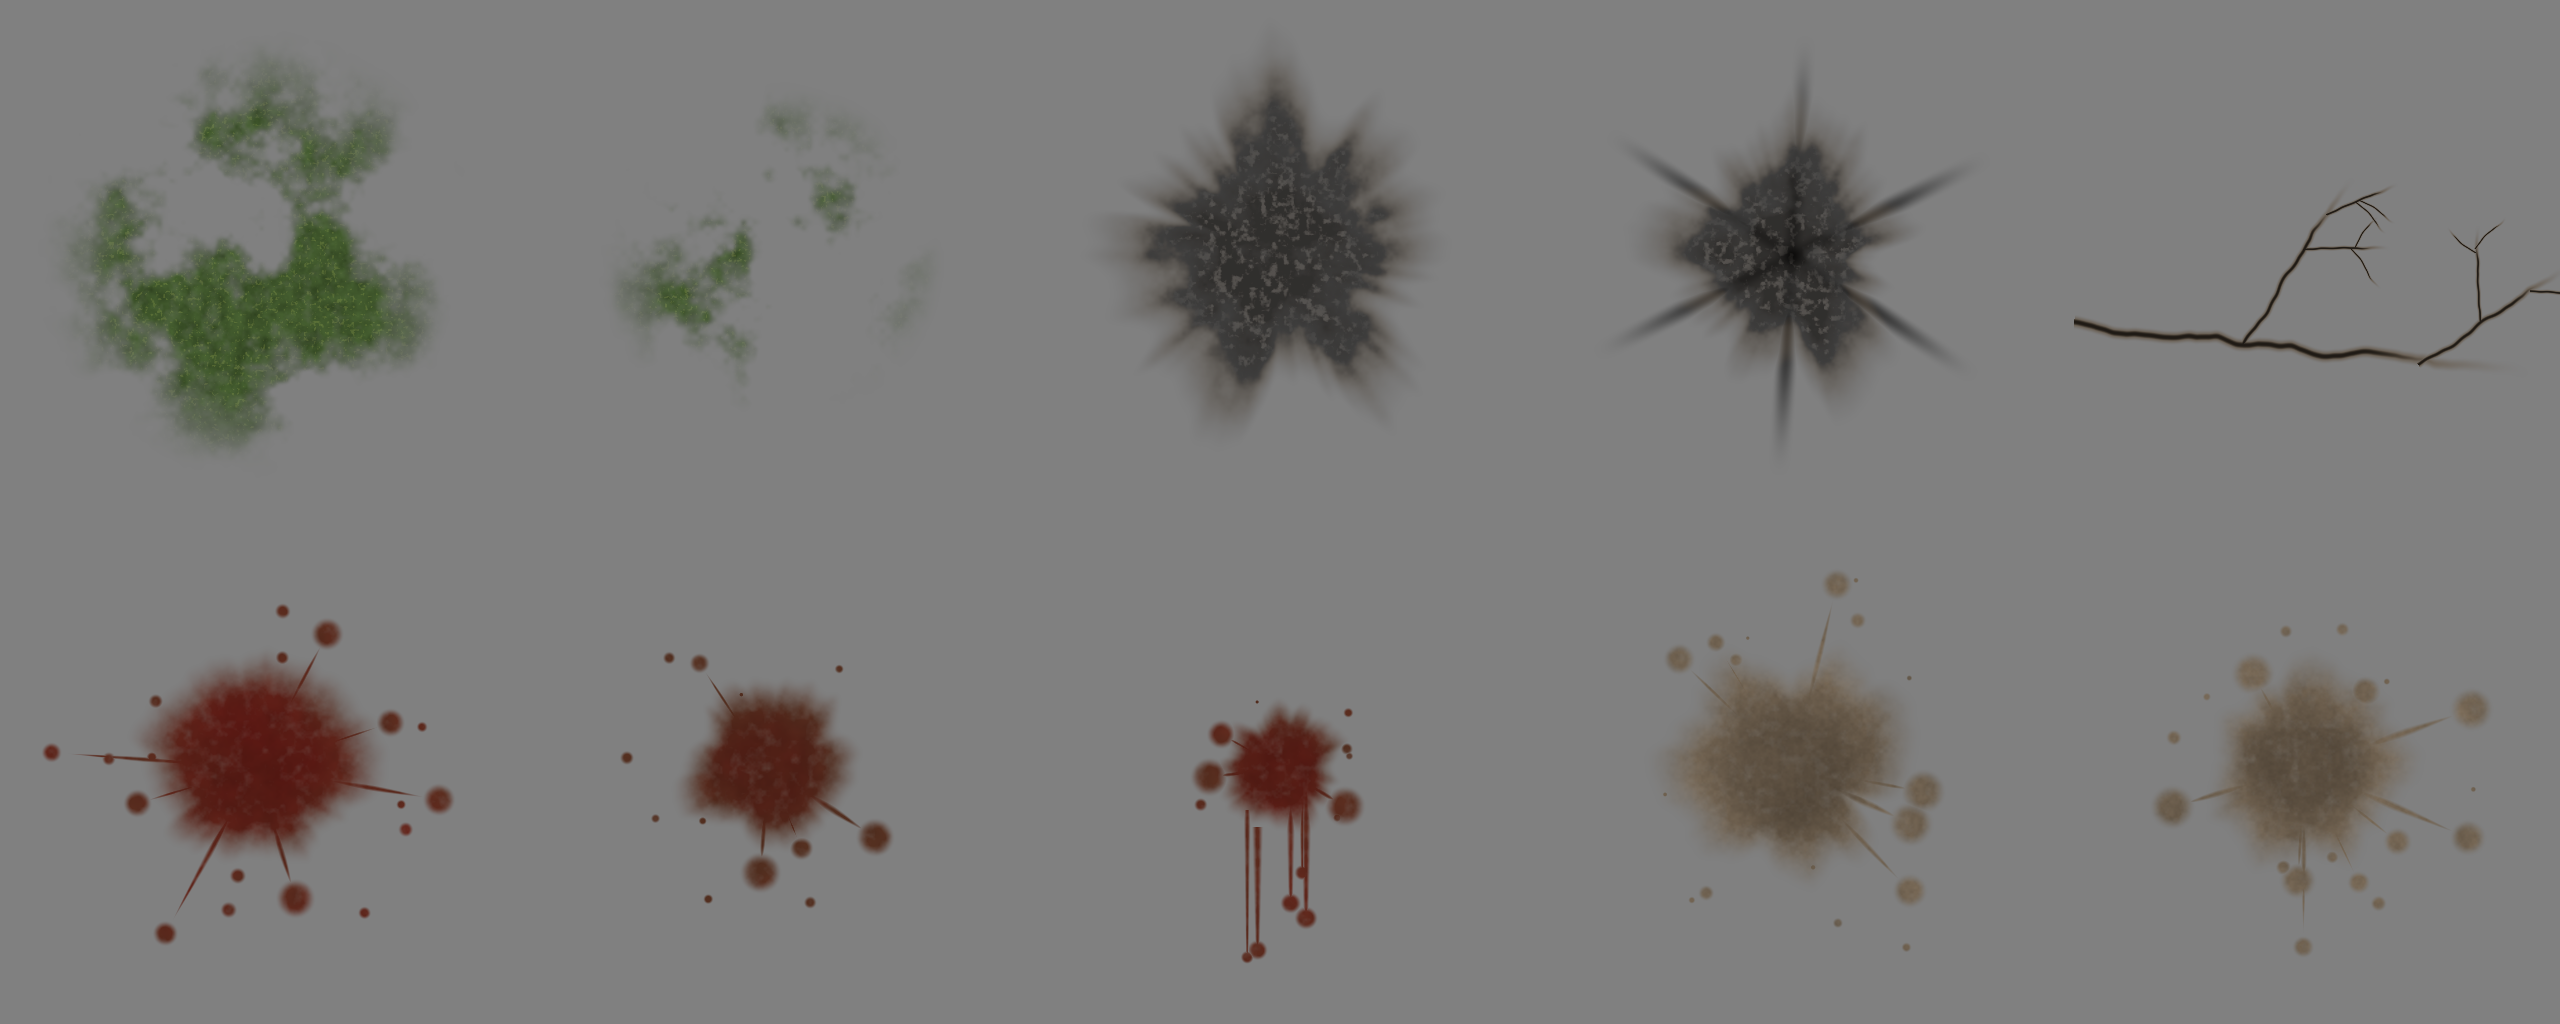
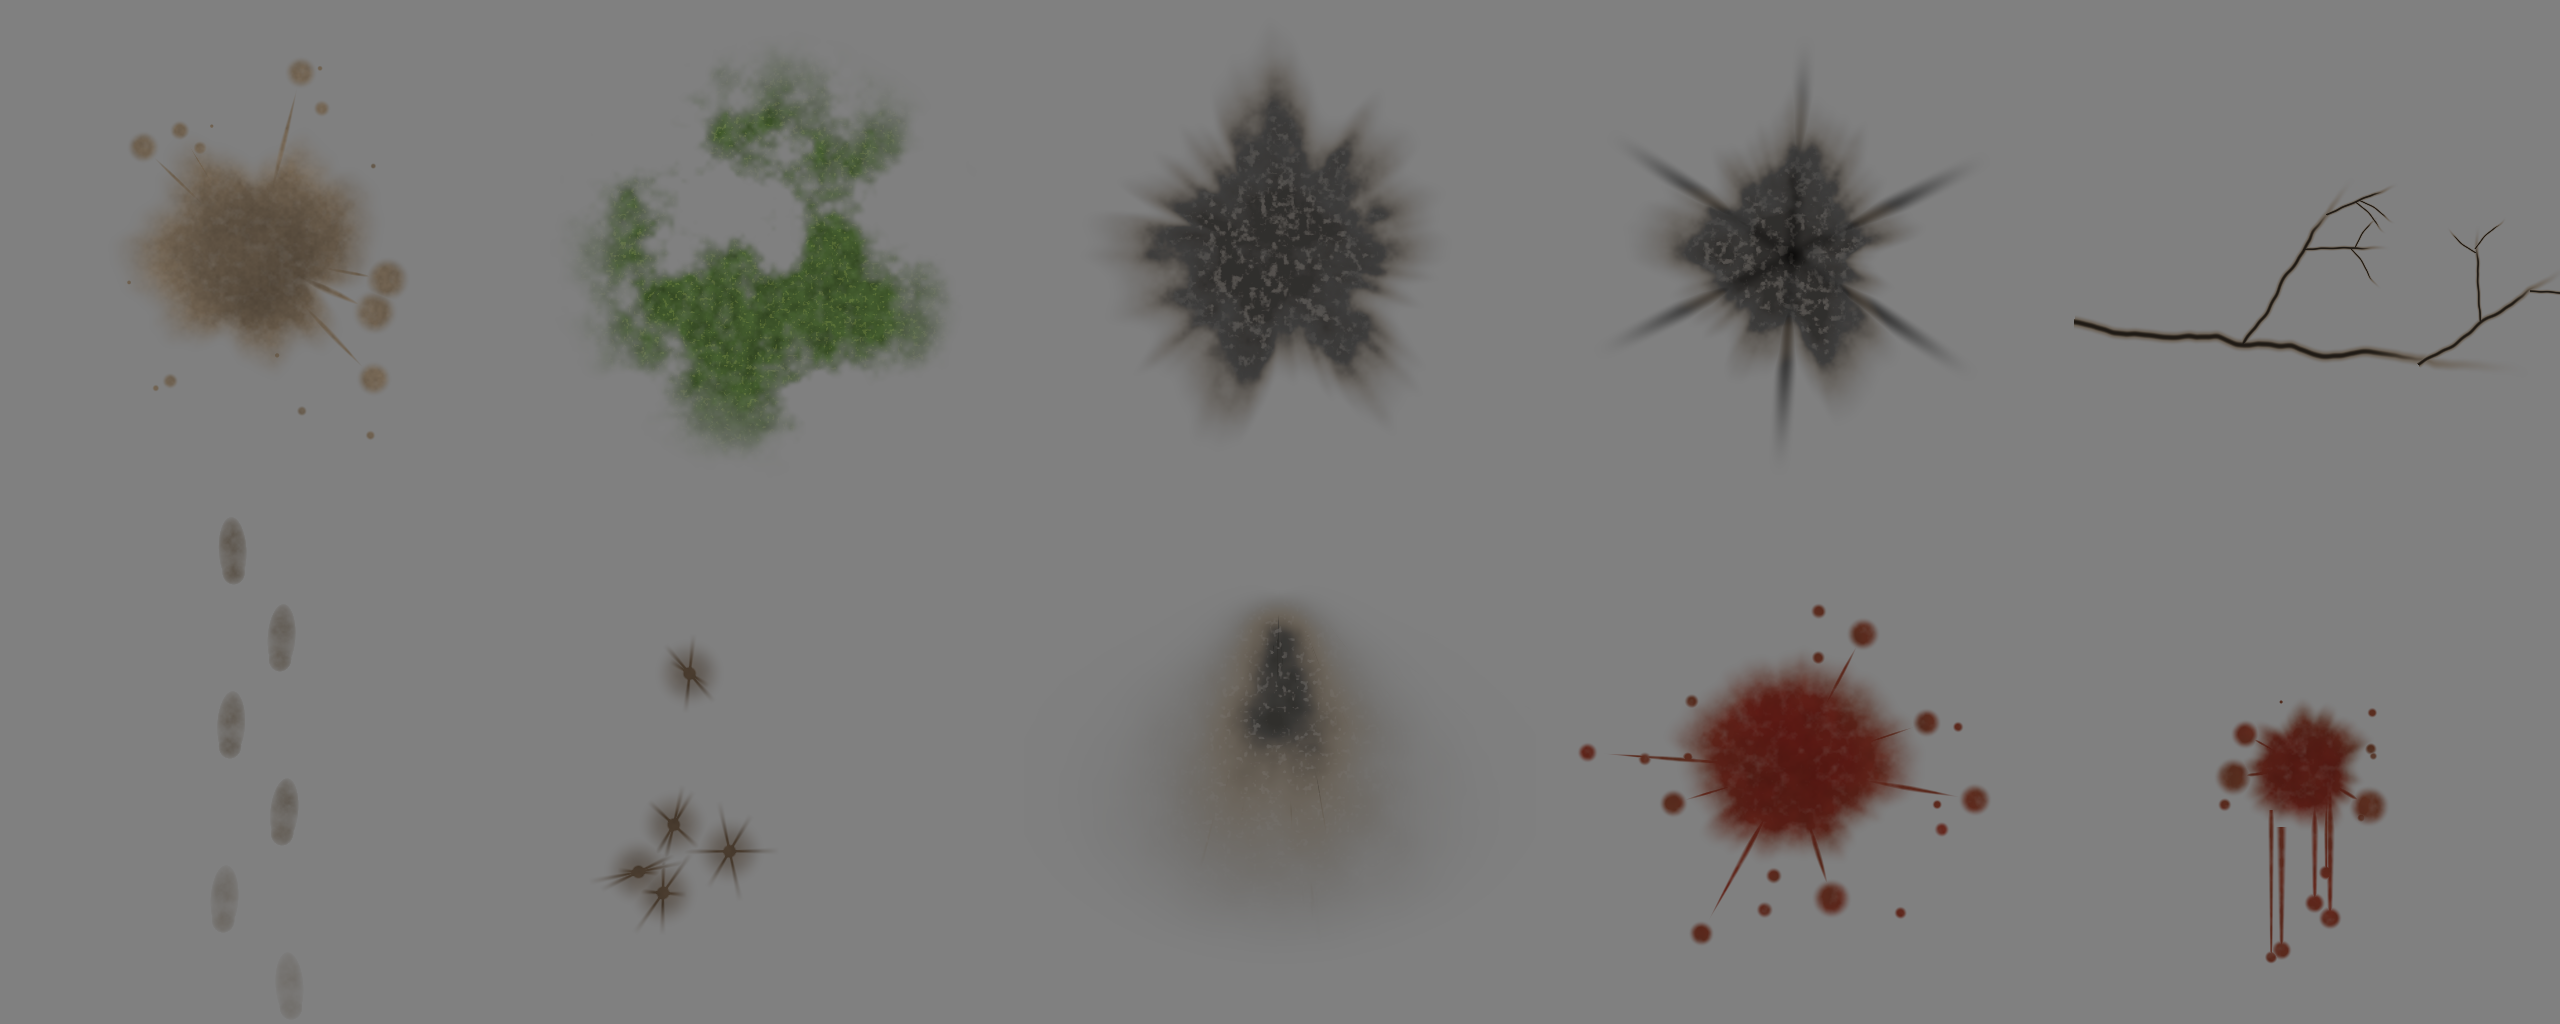
DecalKit: footprints trail, bolt holes, cannon muzzle scorch (owner list 2/14/15)

diff --git a/assets/laptop2/DecalKit/source/build_decals.py b/assets/laptop2/DecalKit/source/build_decals.py
@@ -147,9 +147,65 @@ def crack(name, seed):
     save('T_Decal_%s_ORM' % name, np.stack([1 - 0.6 * inner, 0.9 - 0.1 * rim, np.zeros_like(m)], -1), None, srgb_encode=False)
     save('T_Decal_%s_Normal_DirectX' % name, normal_from_height(h, 8.0), None, srgb_encode=False)
 
+
+def footprints(name, seed):
+    """a walking trail of boot prints in mud: left/right alternating, 0.75 m stride along +Y (down the sheet); hobnail sole."""
+    rng = np.random.default_rng(seed); m = np.zeros_like(U); h = np.zeros_like(U)
+    for k in range(6):
+        cx = 0.0 + (0.11 if k % 2 else -0.11) + rng.uniform(-0.02, 0.02); cy = -0.85 + k * 0.34; a = rng.uniform(-0.12, 0.12)
+        dx, dy = U * 2 - 1 - cx, V * 2 - 1 - cy
+        x_, y_ = dx * math.cos(a) + dy * math.sin(a), -dx * math.sin(a) + dy * math.cos(a)
+        sole = np.clip(1 - ((x_ / 0.055) ** 2 + (y_ / 0.13) ** 2), 0, 1)                           # whole sole
+        heel = np.clip(1 - ((x_ / 0.045) ** 2 + ((y_ - 0.085) / 0.05) ** 2), 0, 1)
+        waist = np.exp(-((y_ - 0.03) / 0.03) ** 2) * 0.6                                            # the arch is lighter
+        p = np.maximum(sole * (1 - waist), heel) ** 0.5
+        nails = 0
+        for nx in (-0.03, 0.0, 0.03):
+            for ny in np.linspace(-0.1, 0.06, 5):
+                nails = np.maximum(nails, sstep(0.009, 0.004, np.hypot(x_ - nx, y_ - ny)))
+        depth = (0.6 + 0.4 * rng.random()) * (1 - 0.12 * k)                                         # fading as the mud dries along the trail
+        m = np.maximum(m, p * depth); h = np.minimum(h, -(p * 0.8 + nails * 0.5) * depth)
+    m = np.clip(m * (1 + 0.3 * (fbm(U * 90, V * 90, seed + 3, 3) - 0.5) * 2), 0, 1)
+    col = np.array([0.075, 0.055, 0.035])[None, None] * (0.8 + 0.4 * fbm(U * 30, V * 30, seed + 2, 3))[..., None]
+    rg = 0.55 + 0.25 * m
+    save('T_Decal_%s_BaseColor' % name, col, m * 0.85)
+    save('T_Decal_%s_ORM' % name, np.stack([1 - 0.5 * m, np.clip(rg, 0, 1), np.zeros_like(m)], -1), None, srgb_encode=False)
+    save('T_Decal_%s_Normal_DirectX' % name, normal_from_height(h, 6.0), None, srgb_encode=False)
+
+def boltholes(name, seed):
+    """crossbow bolts stuck in wood: 5 impact holes with split grain around them and a dark bruise; the bolt shafts
+    themselves are meshes, this is the wood damage under them."""
+    rng = np.random.default_rng(seed); m = np.zeros_like(U); h = np.zeros_like(U)
+    for k in range(5):
+        cx, cy = rng.uniform(-0.6, 0.6), rng.uniform(-0.6, 0.6); dx, dy = X - cx, Y - cy; d = np.hypot(dx, dy)
+        hole = sstep(0.03, 0.012, d); bruise = sstep(0.14, 0.02, d) * 0.5
+        splits = 0
+        for s in range(3):
+            a = rng.uniform(0, math.pi); t = dx * math.cos(a) + dy * math.sin(a); n = -dx * math.sin(a) + dy * math.cos(a)
+            L = rng.uniform(0.08, 0.2); splits = np.maximum(splits, sstep(0.006 * (1 + 2 * np.abs(t) / L), 0.0, np.abs(n)) * (np.abs(t) < L) * (1 - np.abs(t) / L))
+        m = np.maximum(m, np.clip(hole + bruise + splits * 0.8, 0, 1)); h = np.minimum(h, -(hole * 1.0 + splits * 0.5))
+    col = np.array([0.06, 0.04, 0.025])[None, None] * (0.7 + 0.6 * fbm(U * 40, V * 40, seed + 2, 3))[..., None]
+    save('T_Decal_%s_BaseColor' % name, col, m)
+    save('T_Decal_%s_ORM' % name, np.stack([1 - 0.6 * m, 0.7 + 0.2 * m, np.zeros_like(m)], -1), None, srgb_encode=False)
+    save('T_Decal_%s_Normal_DirectX' % name, normal_from_height(h, 7.0), None, srgb_encode=False)
+
+def muzzlescorch(name, seed):
+    """cannon muzzle blast on the ground: a fan of soot in front of the muzzle (+Y), burnt grass ring, powder flecks."""
+    ang = np.arctan2(Y + 0.8, X); fan = np.exp(-((ang - math.pi / 2) / 0.45) ** 2)
+    dist = np.hypot(X, Y + 0.8); m = fan * sstep(1.6, 0.3, dist) * sstep(0.1, 0.3, dist)
+    m = np.clip(m * (0.7 + 0.6 * fbm(U * 12, V * 12, seed, 4)), 0, 1)
+    streaks = sstep(0.75, 0.95, fbm(np.arctan2(Y + 0.8, X) * 40, dist * 3, seed + 1, 3)) * m
+    m = np.clip(m + streaks * 0.5, 0, 1)
+    soot = sstep(0.3, 0.9, m); col = np.array([0.03, 0.028, 0.025])[None, None] * soot[..., None] + np.array([0.18, 0.12, 0.06])[None, None] * (m * (1 - soot))[..., None] * 1.2
+    col = col + np.array([0.14, 0.13, 0.12])[None, None] * sstep(0.6, 0.85, fbm(U * 120, V * 120, seed + 2, 2))[..., None] * m[..., None] * 0.4
+    save('T_Decal_%s_BaseColor' % name, col, m)
+    save('T_Decal_%s_ORM' % name, np.stack([np.ones_like(m), 0.92 - 0.1 * soot, np.zeros_like(m)], -1), None, srgb_encode=False)
+    save('T_Decal_%s_Normal_DirectX' % name, normal_from_height(-soot * 0.15, 1.0), None, srgb_encode=False)
+
 blood('BloodSplatA', 1, 7, 0.8, 0, 0.2); blood('BloodSplatB', 2, 4, 0.6, 0, 0.6); blood('BloodDrips', 3, 3, 0.45, 5, 0.3)
 mud('MudSplashA', 11, 6, 0.85); mud('MudSplashB', 12, 9, 0.7)
 moss('MossPatchA', 21, 0.9); moss('MossPatchB', 22, 0.7)
 scorch('ScorchA', 31, 0.75, False); scorch('ScorchFlare', 32, 0.55, True)
 crack('GroundCrack', 41)
+footprints('Footprints', 51); boltholes('BoltHoles', 61); muzzlescorch('MuzzleScorch', 71)
 print('DECALS OK')

diff --git a/assets/laptop2/DecalKit/source/bake_shield.py b/assets/laptop2/DecalKit/source/bake_shield.py
@@ -27,7 +27,7 @@ GRD = SH.startswith('Ground')
 if GRD: NAME, TN = 'SM_Ground_' + SH[6:], 'T_Ground_' + SH[6:]
 if CMP: NAME, TN = 'SM_Camp_' + SH[4:], 'T_Camp_' + SH[4:]
 MATS = swordmat if SH == 'Sword' else potionmat if POT else gatemat if SH == 'Gate' else floramat if FLO else propmat if PRP else ballistamat if SH == 'Ballista' else campmat if CMP else groundmat if GRD else shieldmat
-PIECES = SH in ('Gate', 'Ballista')      # multi-piece assets: one texture, one FBX per piece (vertex groups)
+PIECES = SH in ('Gate', 'Ballista', 'CampCannonCart')      # multi-piece assets: one texture, one FBX per piece (vertex groups)
 UNBAKED = ('Glass', 'Liquid')     # potions: these keep translucent UE materials and are not baked
 TEX = os.path.join(D, 'tex'); os.makedirs(TEX, exist_ok=True)
 sc = bpy.context.scene
@@ -71,6 +71,7 @@ elif STAGE in ('BC', 'RG', 'MT', 'AO', 'Normal', 'EM', 'HT'):
     if FLO: b.cage_extrusion = 0.004; b.max_ray_distance = 0.008
     if SH == 'CampCampfire': b.cage_extrusion = 0.004; b.max_ray_distance = 0.008   # logs lie on stones and ash: short rays so they don't bake the neighbours
     if SH == 'PropsSack': b.cage_extrusion = 0.015; b.max_ray_distance = 0.03         # slumped cloth, no thin parts
+    if SH == 'FloraBloodcap': b.cage_extrusion = 0.012; b.max_ray_distance = 0.025   # big cupped petals with 8 mm veins/ruffle: the 4 mm cage missed them (black)
     if SH in ('FloraBlobMine', 'FloraEggCluster'): b.cage_extrusion = 0.02; b.max_ray_distance = 0.045   # lumpy sacs and mounds, no thin leaves: the 4 mm cage left black holes      # thin petals and leaves: clear the 2 mm midrib/ruffle of the high, but not the neighbours (whorls 6 mm apart)
     QUAD = os.environ.get('QUAD'); BS = SIZE
     if QUAD is not None:

diff --git a/assets/laptop2/DecalKit/source/render_heater.py b/assets/laptop2/DecalKit/source/render_heater.py
@@ -10,7 +10,7 @@ sc.render.resolution_x, sc.render.resolution_y = int(os.environ.get('RW', '1200'
 sc.view_settings.view_transform = 'AgX'; sc.view_settings.exposure = float(os.environ.get('EXPOSURE', '0'))
 if mode == 'mat':
     MS = os.environ.get('MATSET') or os.environ.get('VIEWSET')   # MATSET picks the material module when the camera set differs
-    sys.path.insert(0, os.environ.get('KITDIR', D)); import shieldmat, swordmat, potionmat, gatemat, floramat, propmat, ballistamat; (swordmat if os.environ.get('SHIELD') == 'Sword' else potionmat if MS == 'potion' else gatemat if MS == 'gate' else floramat if MS == 'flora' else propmat if MS == 'props' else ballistamat if os.environ.get('SHIELD') == 'Ballista' else shieldmat).build_all()
+    sys.path.insert(0, os.environ.get('KITDIR', D)); import shieldmat, swordmat, potionmat, gatemat, floramat, propmat, ballistamat, campmat; (campmat if MS == 'camp' else swordmat if os.environ.get('SHIELD') == 'Sword' else potionmat if MS == 'potion' else gatemat if MS == 'gate' else floramat if MS == 'flora' else propmat if MS == 'props' else ballistamat if os.environ.get('SHIELD') == 'Ballista' else shieldmat).build_all()
 elif mode == 'clay':
     for m in bpy.data.materials:
         m.use_nodes = True; nt = m.node_tree; nt.nodes.clear()

diff --git a/assets/laptop2/DecalKit/import_decals_ue.py b/assets/laptop2/DecalKit/import_decals_ue.py
@@ -7,7 +7,7 @@
 #    under the campfire / brazier and where fire spears land, the crack across courtyard cobbles.
 import sys, os, unreal
 SRC = os.path.dirname(os.path.abspath(__file__)); ROOT = '/Game/CastleDefender/Environment/Decals'
-NAMES = ('BloodSplatA', 'BloodSplatB', 'BloodDrips', 'MudSplashA', 'MudSplashB', 'MossPatchA', 'MossPatchB', 'ScorchA', 'ScorchFlare', 'GroundCrack')
+NAMES = ('BloodSplatA', 'BloodSplatB', 'BloodDrips', 'MudSplashA', 'MudSplashB', 'MossPatchA', 'MossPatchB', 'ScorchA', 'ScorchFlare', 'GroundCrack', 'Footprints', 'BoltHoles', 'MuzzleScorch')
 pick = [a for a in sys.argv[1:] if a in NAMES] or list(NAMES)
 EAL, MEL, tools = unreal.EditorAssetLibrary, unreal.MaterialEditingLibrary, unreal.AssetToolsHelpers.get_asset_tools()
 

diff --git a/assets/laptop2/DecalKit/README.md b/assets/laptop2/DecalKit/README.md
@@ -14,6 +14,9 @@ heat ring, the crack dark inside with a lip of displaced earth.
 | ScorchA | under the campfire, the brazier, burnt-out torches | 1.3 m |
 | ScorchFlare | where fire spears / cannon balls land (BP: spawn on impact) | 1 m |
 | GroundCrack | across courtyard cobbles and the realm crust (rotate freely, overlap 2–3) | 2–3 m |
+| Footprints | a 6-step boot trail (walks along +Y): on the road, the gate threshold, the barracks yard | 2 × 2 m |
+| BoltHoles | split-wood impact holes under stuck bolts on the gate, palisades, the training dummy | 1 m |
+| MuzzleScorch | soot fan in front of each cannon muzzle (+Y = the firing direction) | 2.5 m |
 
 ## Unreal
 
